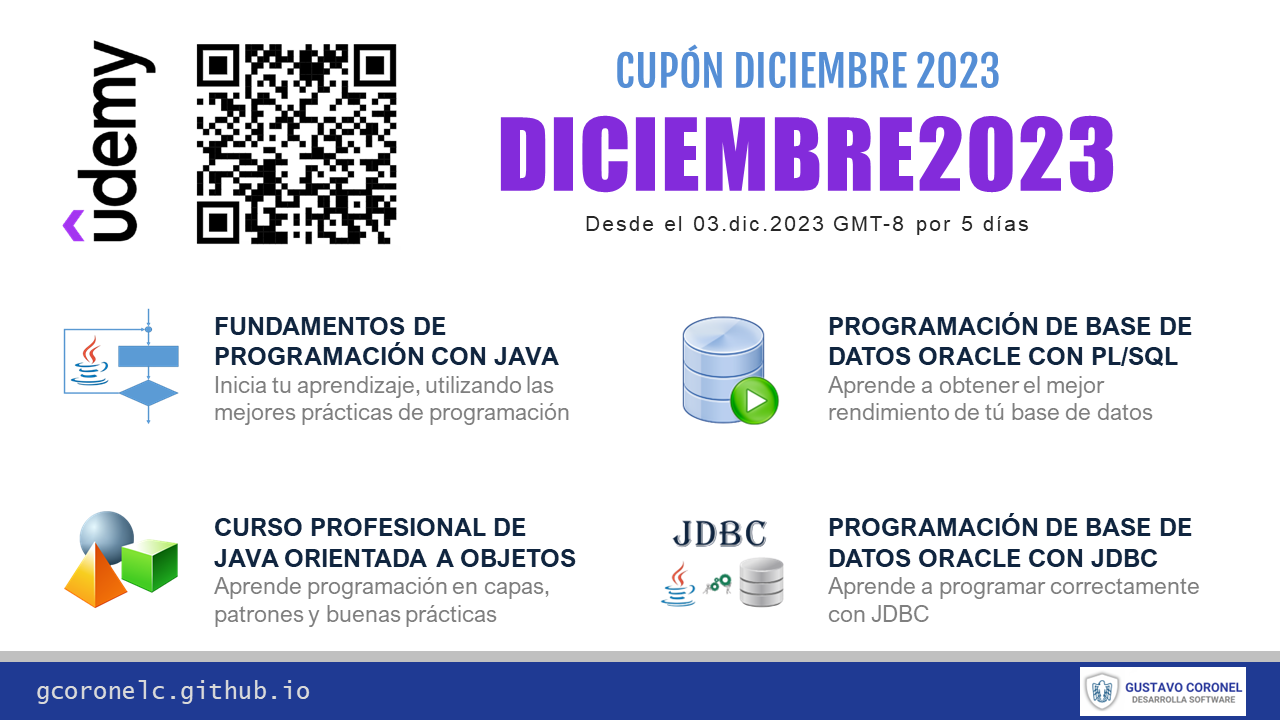
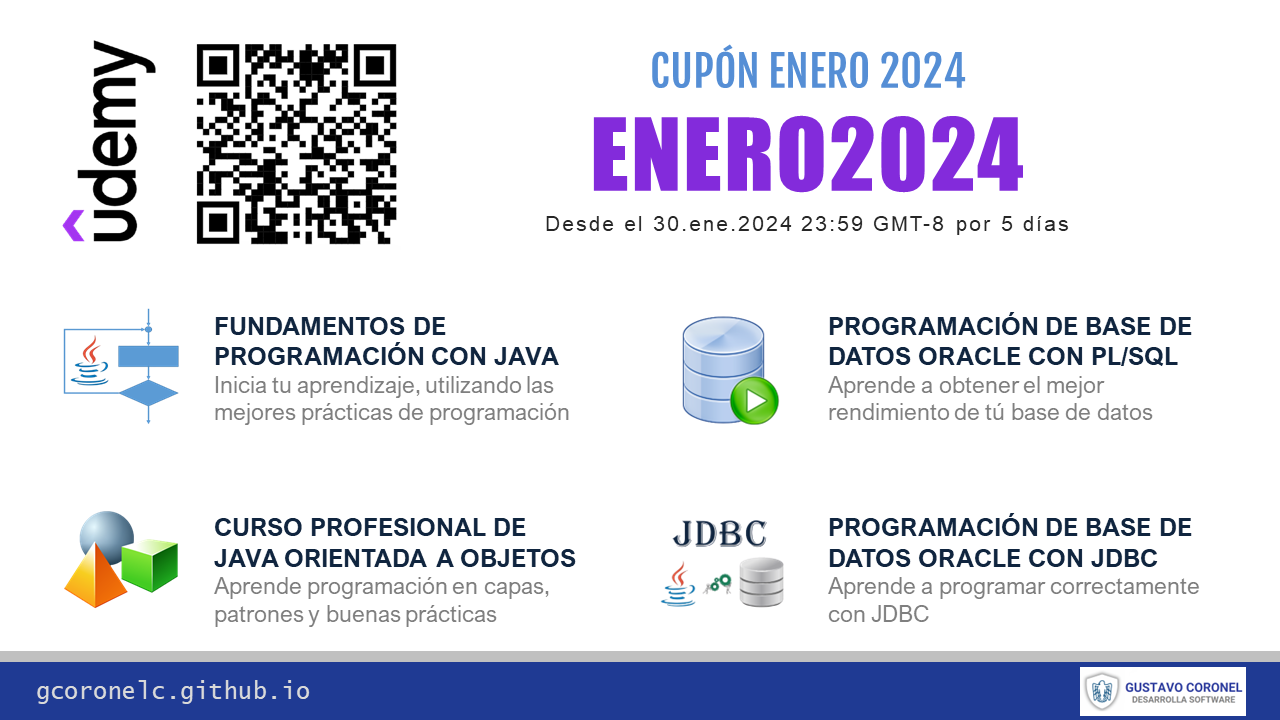
enero 2024

Changed region(s): [[0.375, 0.1528, 0.875, 0.3361], [0.4688, 0.0611, 0.7812, 0.1222]]

diff --git a/index.html b/index.html
@@ -85,9 +85,9 @@
       <div class="card">
         <div class="card-header">
           <h4 class="card-title text-primary">CURSOS VIRTUALES EN UDEMY</h4>
-          <h6 class="card-subtitle mb-2 text-secondary"><b>CUPON: DICIEMBRE2023</b></h6>
+          <h6 class="card-subtitle mb-2 text-secondary"><b>CUPON: ENERO2024</b></h6>
 		  <h6 class="card-subtitle mb-2 text-secondary"><b>COSTO: $9.99</b></h6>
-          <h6 class="card-subtitle text-secondary"><b>VIGENCIA: Desde el 03/DIC/2023 00:00 PST (GMT -8) por 5 días</b></h6>
+          <h6 class="card-subtitle text-secondary"><b>VIGENCIA: Desde el 30.ENE.2024 23:59 PST (GMT -8) por 5 días</b></h6>
         </div>
         <div class="card-body">
           <div class="row">
@@ -100,7 +100,7 @@
                   <div class="youtube-player" data-id="1mcdHGywMvk"></div>
                 </div>
                 <div class="card-footer">
-                  <a class="btn btn-info btn-block" target="_blank" href="https://www.udemy.com/course/fund-java/?couponCode=DICIEMBRE2023">Click aquí para ir al curso</a>
+                  <a class="btn btn-info btn-block" target="_blank" href="https://www.udemy.com/course/fund-java/?couponCode=ENERO2024">Click aquí para ir al curso</a>
                 </div>
               </div>
             </div>
@@ -113,7 +113,7 @@
                   <div class="youtube-player" data-id="EKlwF12-l9Y"></div>
                 </div>
                 <div class="card-footer">
-                  <a class="btn btn-info btn-block" target="_blank" href="https://www.udemy.com/course/java-orientado-a-objetos/?couponCode=DICIEMBRE2023">Click aquí para ir al curso</a>
+                  <a class="btn btn-info btn-block" target="_blank" href="https://www.udemy.com/course/java-orientado-a-objetos/?couponCode=ENERO2024">Click aquí para ir al curso</a>
                 </div>              
               </div>
             </div>
@@ -126,7 +126,7 @@
                   <div class="youtube-player" data-id="MR53Xgeg28Y"></div>
                 </div>
                 <div class="card-footer">
-                  <a class="btn btn-info btn-block" target="_blank" href="https://www.udemy.com/course/java-jdbc-oracle/?couponCode=DICIEMBRE2023">Click aquí para ir al curso</a>
+                  <a class="btn btn-info btn-block" target="_blank" href="https://www.udemy.com/course/java-jdbc-oracle/?couponCode=ENERO2024">Click aquí para ir al curso</a>
                 </div>              
               </div>
             </div>
@@ -139,7 +139,7 @@
                   <div class="youtube-player" data-id="qf5IF2dJtQc"></div>
                 </div>
                 <div class="card-footer">
-                  <a class="btn btn-info btn-block" target="_blank" href="https://www.udemy.com/course/lenguaje-plsql/?couponCode=DICIEMBRE2023">Click aquí para ir al curso</a>
+                  <a class="btn btn-info btn-block" target="_blank" href="https://www.udemy.com/course/lenguaje-plsql/?couponCode=ENERO2024">Click aquí para ir al curso</a>
                 </div>              
               </div>
             </div>
